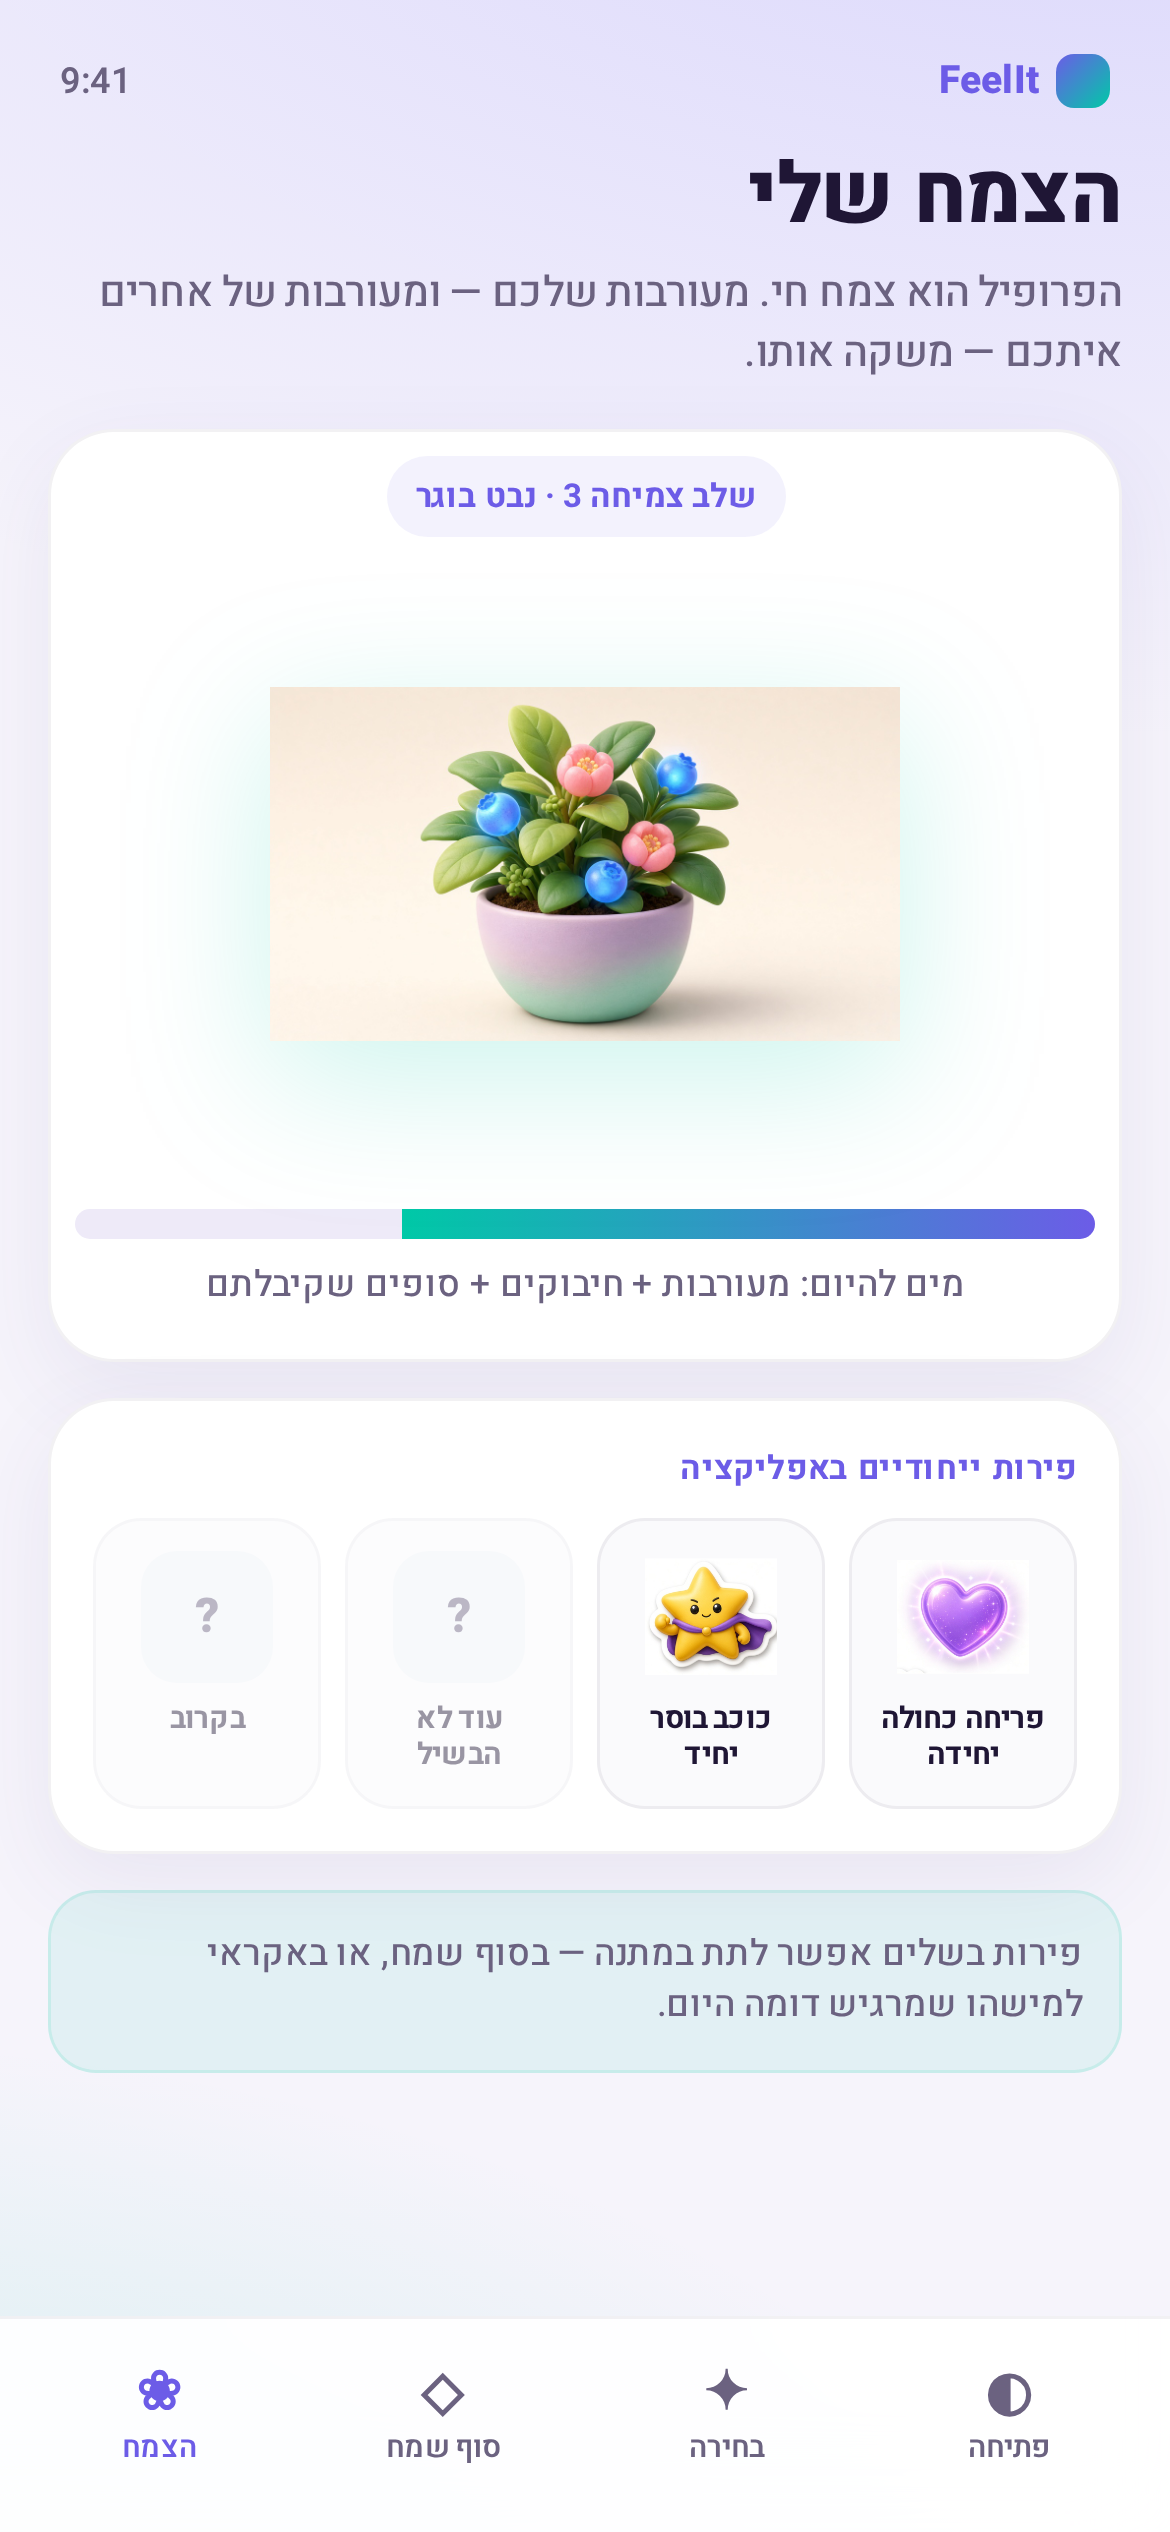
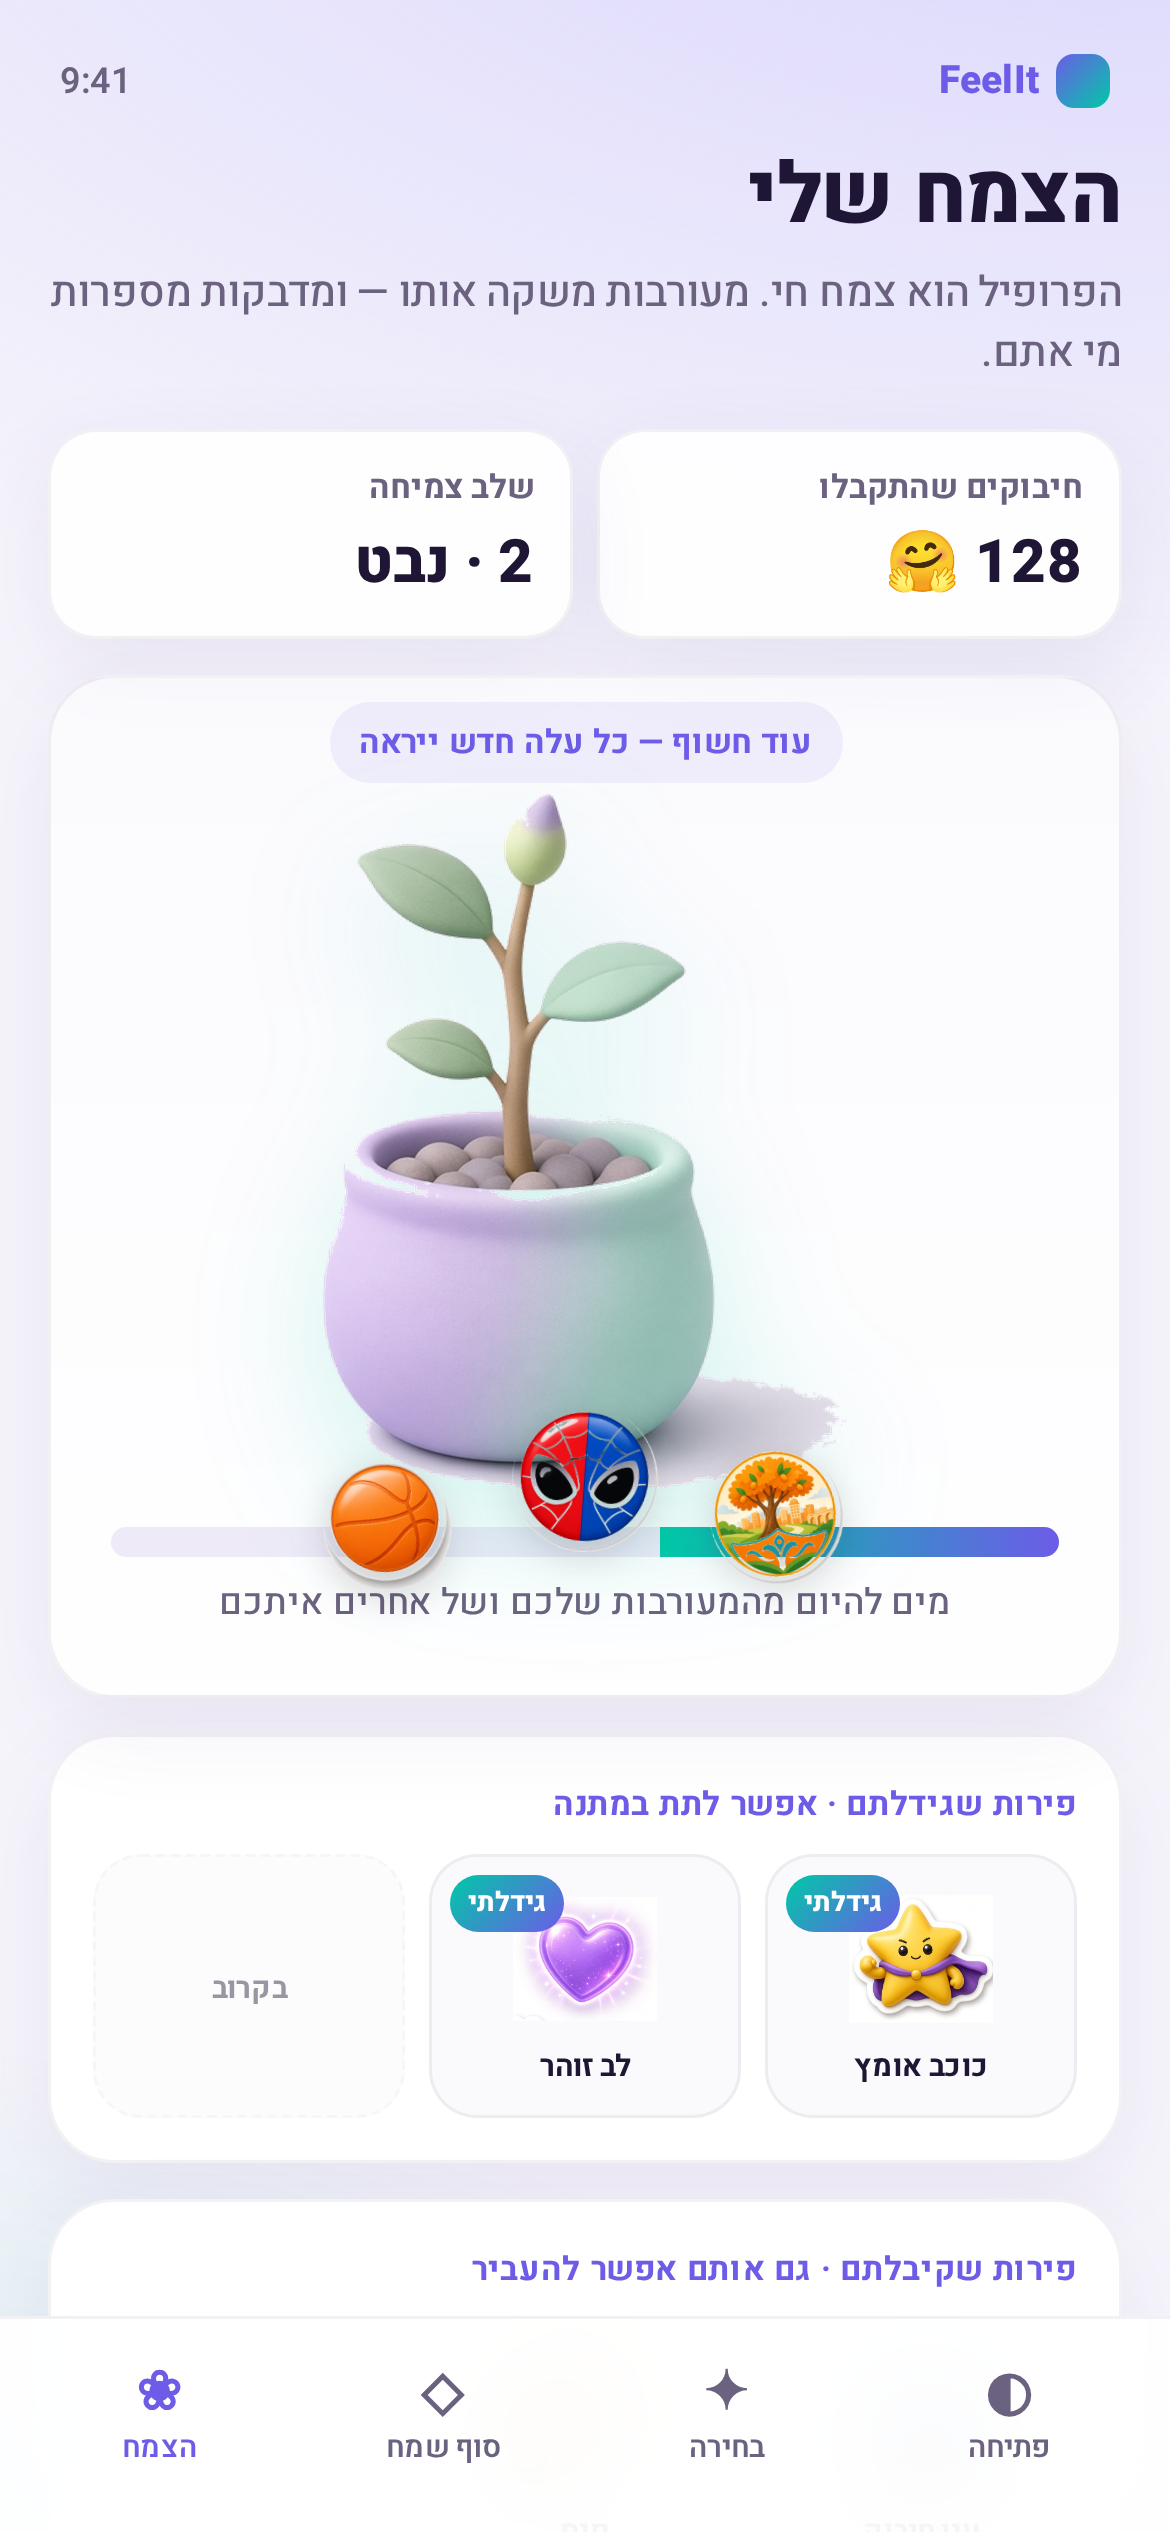
Update My Plant mock + add profile stickers, hugs count, fruit inventories
README updates:
- Plant art blends into UI, starts bare
- Profile stickers on pot: city emblem, favorite character, hobby
- Hugs received count displayed
- Two fruit inventories: grown-by-me vs received-as-gifts

OPEN-QUESTIONS: sticker catalog/moderation, city emblem sources, grown-vs-received UX

diff --git a/OPEN-QUESTIONS.md b/OPEN-QUESTIONS.md
@@ -79,8 +79,12 @@ The following decisions are not yet finalized and require further discussion.
 - **Growth stages:** How many stages does the plant have? What visual changes at each stage?
 - **Fruit uniqueness:** How are fruits made unique app-wide? Generated per-user? Limited pool with first-come assignment?
 - **Fruit catalog:** What types of fruits exist? How many can a user grow?
+- **Grown vs received UX:** How are the two fruit inventories displayed? Can users tell which fruits they grew vs received?
 - **Gifting surfaces:** Where can users gift their fruits? Only Happy Ending? Also Welcome Step 3? Random matching?
 - **Fruit recipient experience:** How does the recipient see/receive a gifted fruit? Notification? On their plant?
+- **Profile stickers catalog:** What stickers are available? Categories (city, character, hobby)?
+- **Sticker moderation:** How are custom stickers or user-selected stickers moderated?
+- **City emblem sources:** Where do city emblems come from? Pre-loaded set? User-submitted?
 
 ---
 

diff --git a/README.md b/README.md
@@ -95,10 +95,21 @@ Share what happened. Receive hopeful endings from others.
 
 Profile as a growing plant.
 
+**Plant visual:**
+- Plant art blends into UI (no rectangular photo background)
+- Plant starts relatively bare so growth/evolution is visible over time
 - Every engagement waters it (yours and others' toward you)
-- Plant evolves visually through growth stages
-- Grows **unique fruits** (app-wide unique icons)
-- Ripe fruits can be gifted to other users
+
+**Profile stickers:** The pot holds stickers representing child attributes:
+- City emblem (e.g. Kfar Saba)
+- Favorite character
+- Hobby (e.g. basketball)
+
+**Hugs received:** Profile displays total hugs received count.
+
+**Unique fruits (two inventories):**
+1. **Grown by my plant** — marked as grown-by-me; can gift to others
+2. **Received as gifts** — can also re-gift to others
 
 ![My Plant](mocks/my-plant.png)
 
